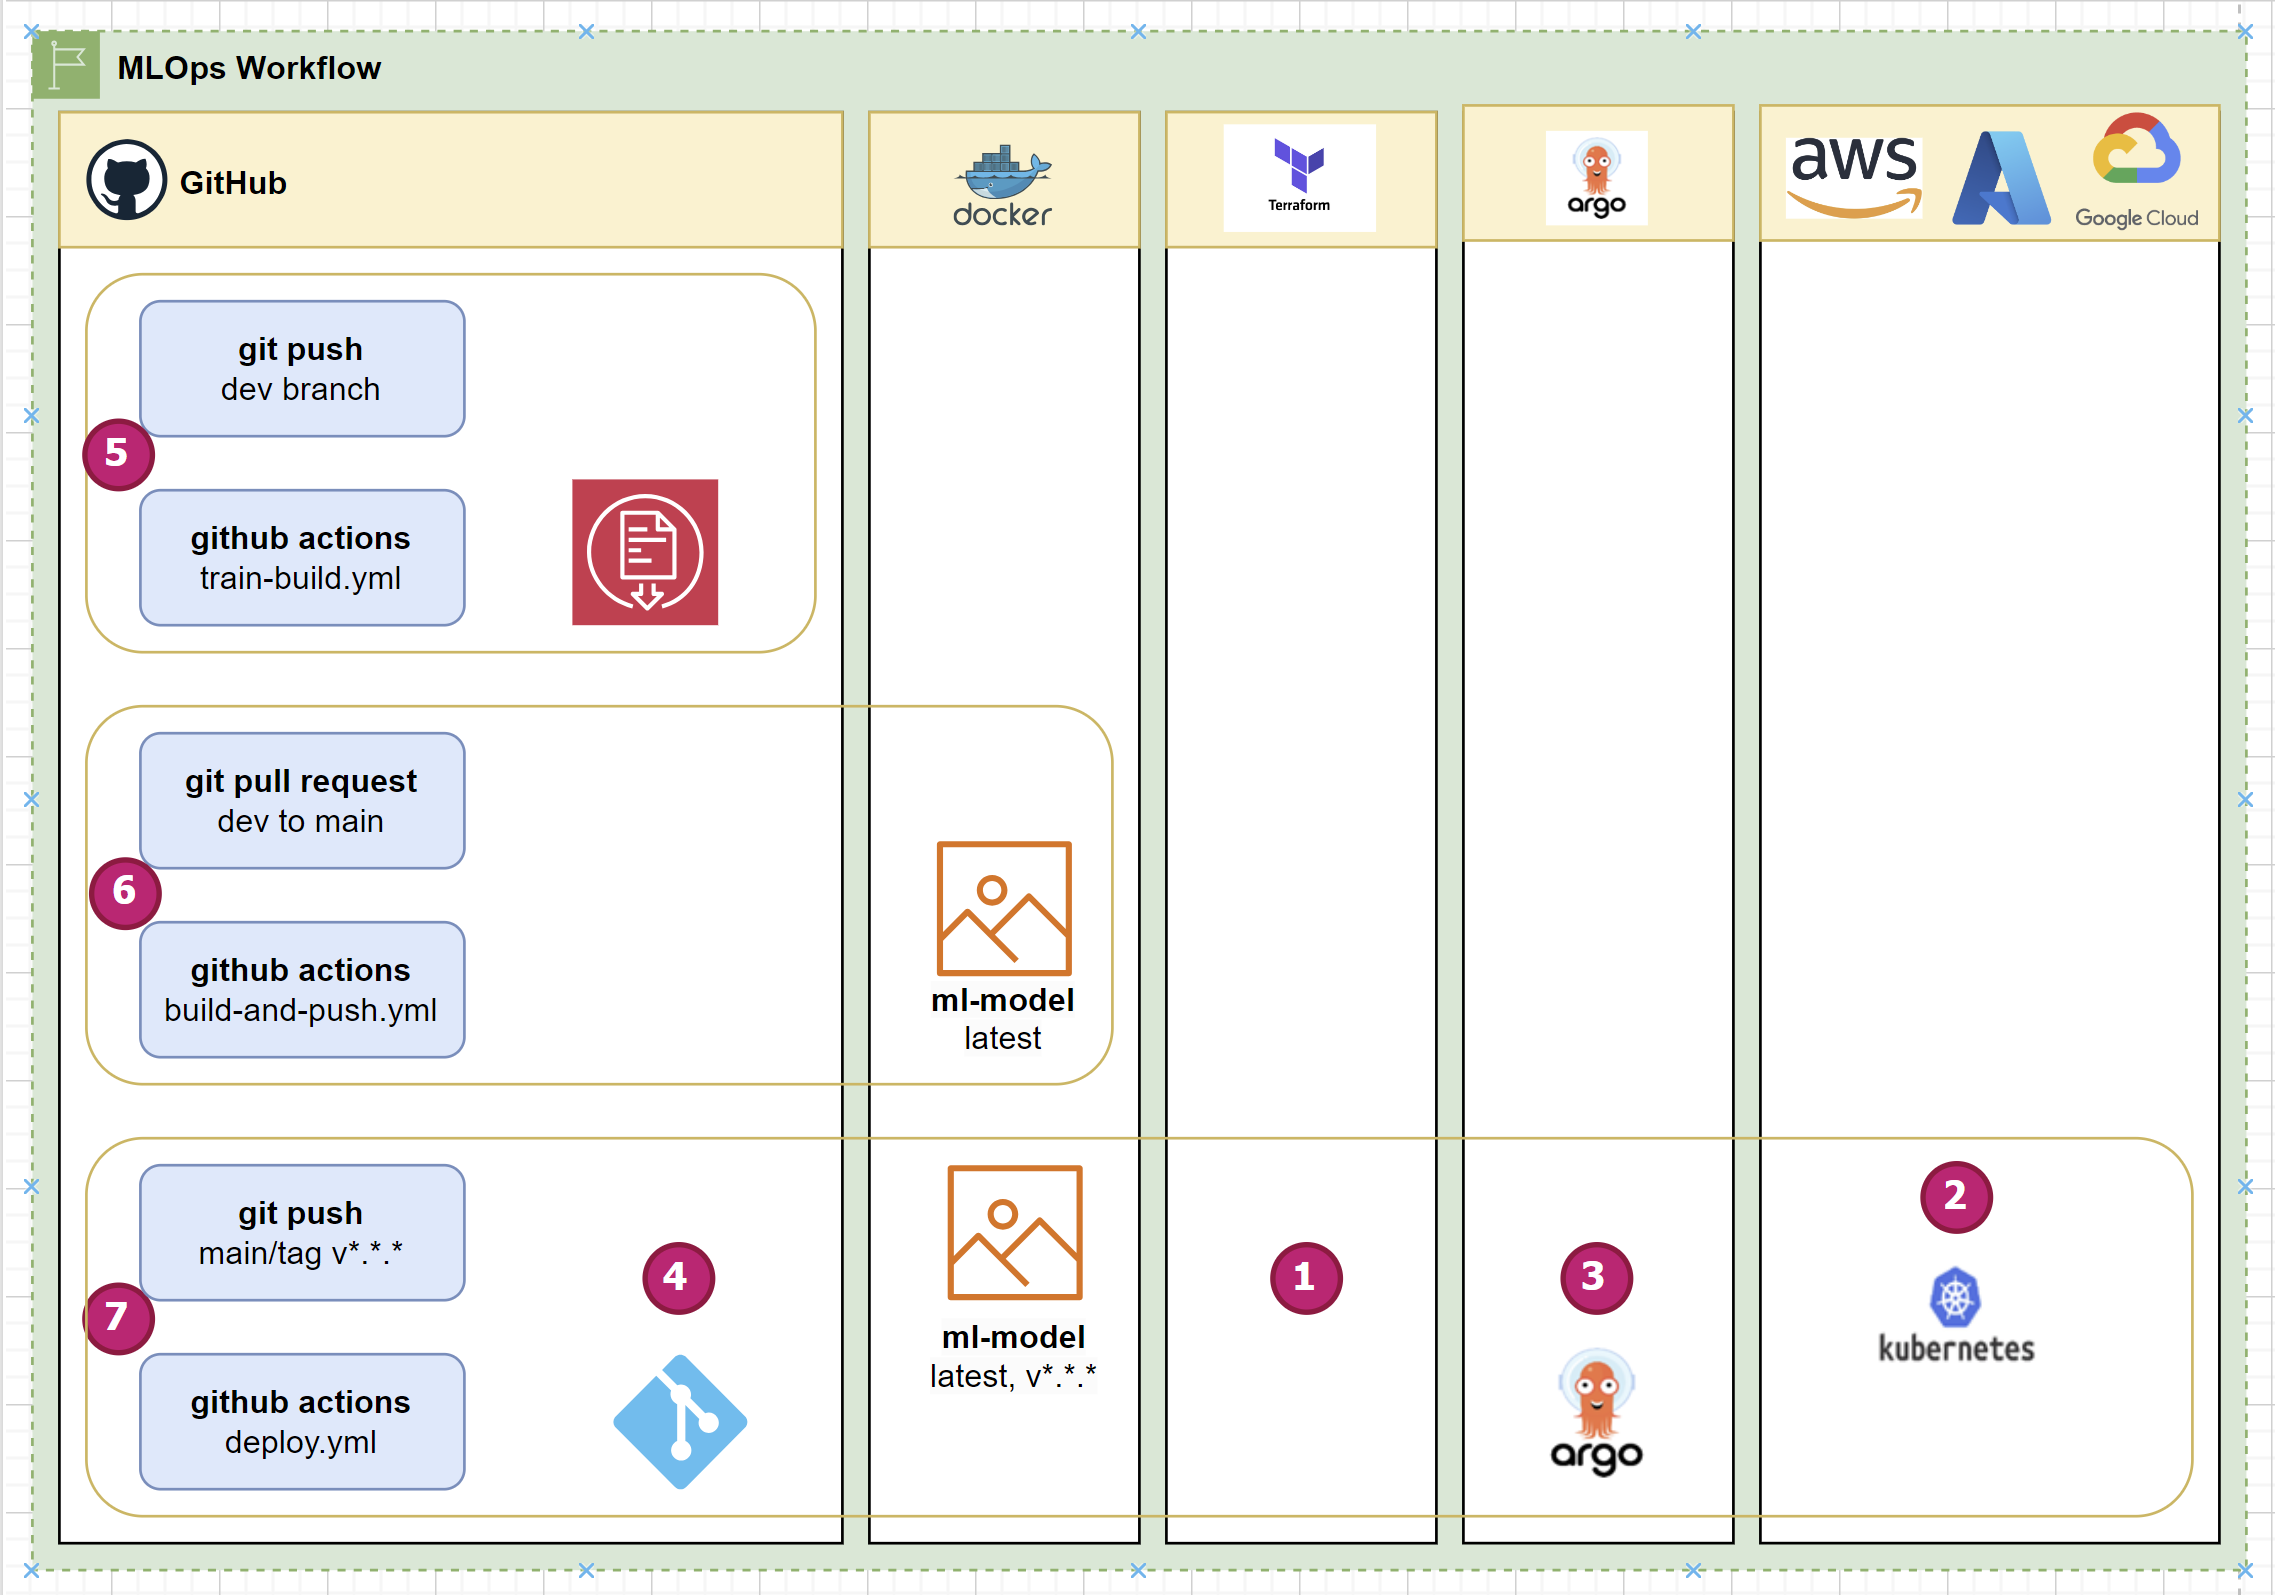
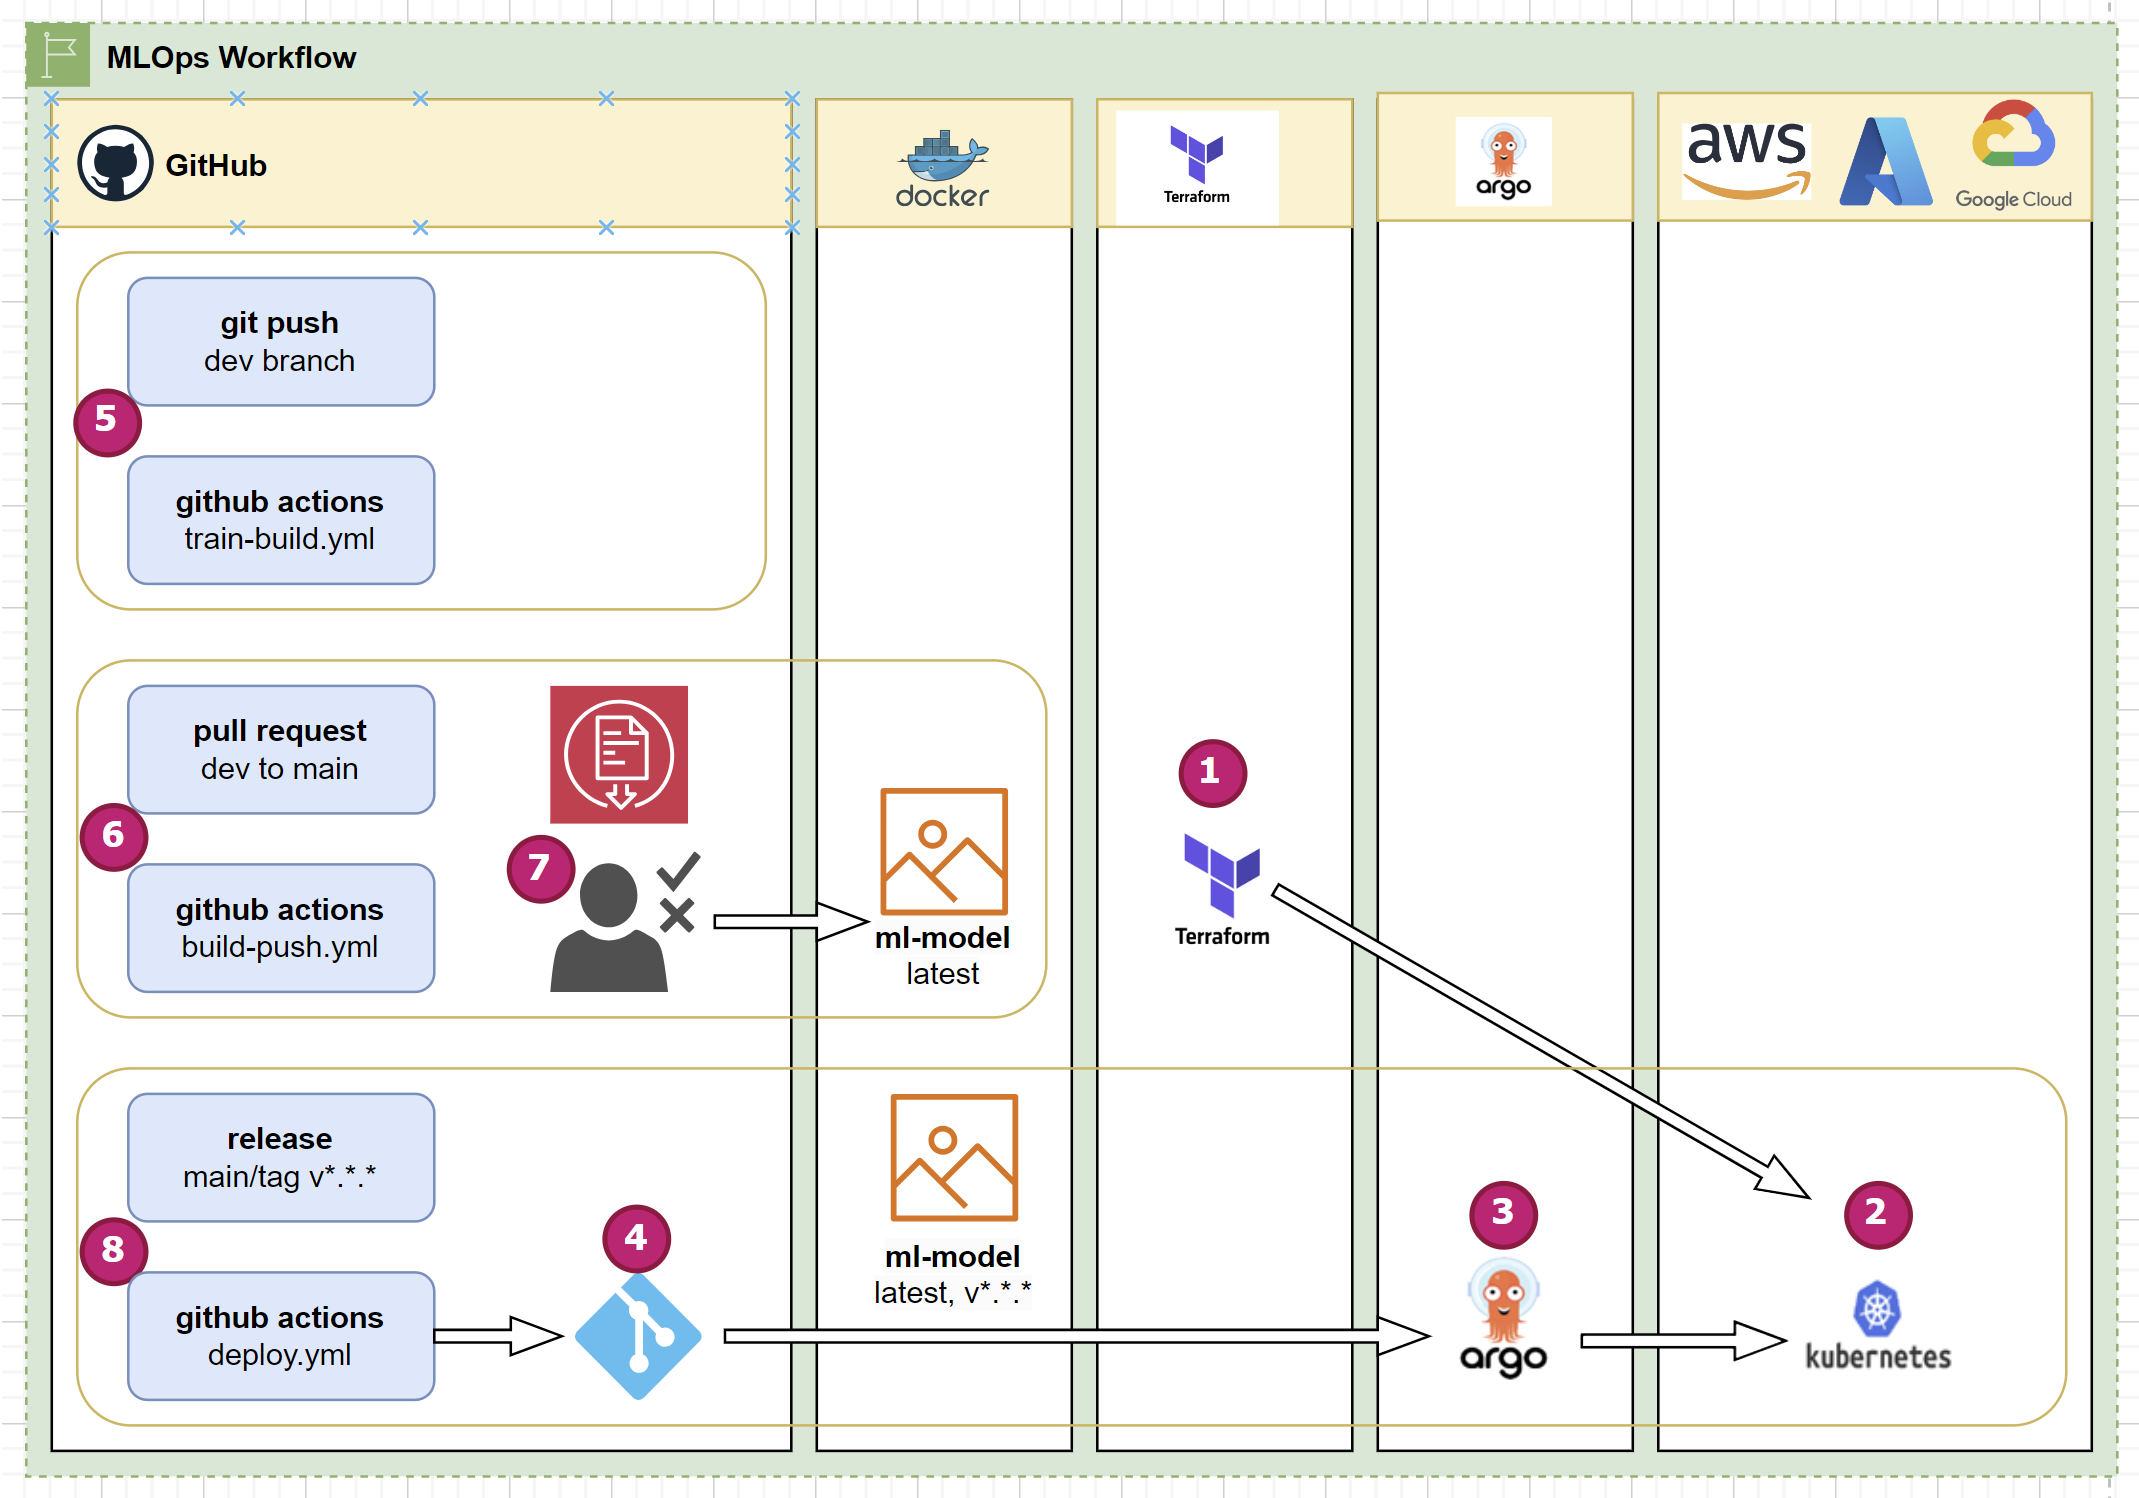
Revised the contents of README.md and re-updated the screenshots.

diff --git a/README.md b/README.md
@@ -74,6 +74,7 @@ In this project, we will also leverage GitHub Actions as the tool to automate th
 #### _MLOps workflow using GitHub Actions._
 <img src="images/d1-mlops-github-action-workflow.png" width="800" /><br>
 
+![alt text](image.png)
 In the ML domain, the actual development or the training/fine-tuning of the program codes is usually done by a data scientist. Hence, the Trunk-based development approach (versus the more complex variation using Feature branching) is more suitable as the branching strategy for MLOps workflow.
 
 Reference: https://www.freecodecamp.org/news/what-is-trunk-based-development/
@@ -82,38 +83,38 @@ In our MLOps workflow, there are mainly 3 events that will trigger the MLOps pip
 
 1.  __Push event at dev branch__
 
+    -  The trained ML model as well as training results will saved as GitHub artifacts for audit trail purpose.
+
 2.  __Pull request from dev branch to main branch__
 
-    -  There will be an approval step for a manager/senior data scientist to check and assess the ML model training results, which are available as GitHub artifacts.
-    - Upon approval of the results, the changes and the latest source codes are merged back to the main branch.
-    - The model file (one of the files in the GitHub artifacts) is used to build the Docker image.
-    - The image is tagged as ml-model:latest (note that this is a developer build and not to be released to production environment) and is pushed to the DockerHub.
-    - If the pull request is not approved for some reasons, the pending CI workflow/job will be cancelled by GitHub Actions and no ml-model:latest will be pushed to the DockerHub.
+    -  New pull requests to merge changes from dev to the main branch are subjected to approval by a manager/senior data scientist to validate and assess the ML model training results, which are available as GitHub artifacts.
+    - Upon acceptance of the test results and approval of the pull request, the changes and the latest source codes are merged back to the main branch.
+    - The ML model file (one of the files in the GitHub artifacts) will be used to build the Docker image and tagged as ml-model:latest (note that this is a developer build and not to be released to production environment) and is pushed to the DockerHub.
+    - If the pull request is rejected for some reasons, the pending CI workflow/job will be cancelled by GitHub Actions and no ml-model:latest will be pushed to the DockerHub.
 
 3.  __Release event on the main branch with vx.x.x semantic version tag__
 
-    - This is a step that requires due diligence on the testing team to schedule the deployment of the release version to the production environment.
+    - This is a step that requires due diligence on the testing/QA team to schedule the deployment of the release version of the ML model to the production environment.
     - Upon creation of the release tag, the event will trigger the CD process:
-        - Push to DockerHub with 2 images with latest version and vx.x.x.
-        - Deploy the infrastructures and the Kubernetes cluster(s) using Terraform.
+        - Push to DockerHub with 2 images with respective tag of latest and vx.x.x.
         - Update the values.yaml file in the application config repository to the new release version vx.x.x.
-        - Deployment of the release version vx.x.x of the ML model to the test system is auto-sync via ArgoCD UI or CLI.
+        - Deployment of the release version vx.x.x of the ML model to the test/dev system is auto-sync via ArgoCD UI or CLI.
         - Deployment of the release version vx.x.x of the ML model to the production system is manually synchronised via ArgoCD UI or CLI.
-    - If the release is not approved for some reasons, the pending CD workflow/job will be cancelled by GitHub Actions.
+    - If the release is rejected for some reasons, the pending CD workflow/job will be cancelled by GitHub Actions.
 
 <XXXdetails><summary><code style="color: yellow">MLOps CI/CD Pipeline Demo</code></summary>
 
-1.  Pre-requisites For MLOps CI/CD Pipeline Demo:
+1.  __Push event at dev branch__
 
     - Format:
         ```
         kubectl
         ```
-2.
+2.  __Pull request from dev branch to main branch__
 ```
 ```
 
-3.
+3.  __Release event on the main branch with vx.x.x semantic version tag__
 ```
 ```
 </details>
